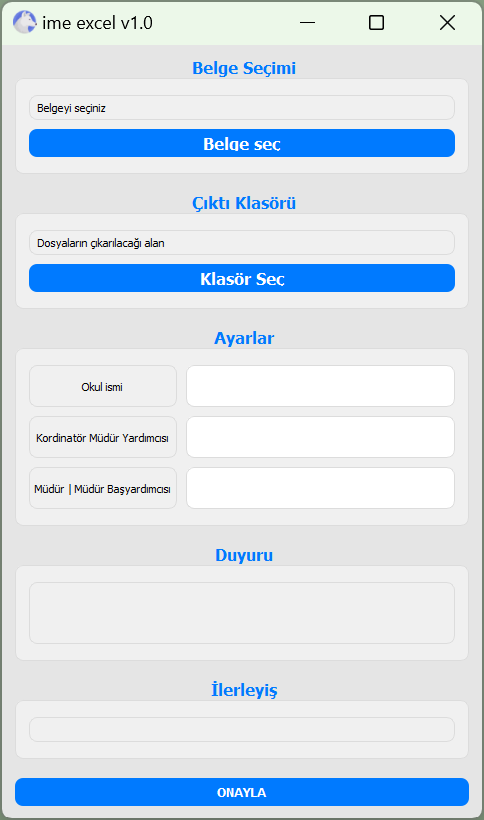
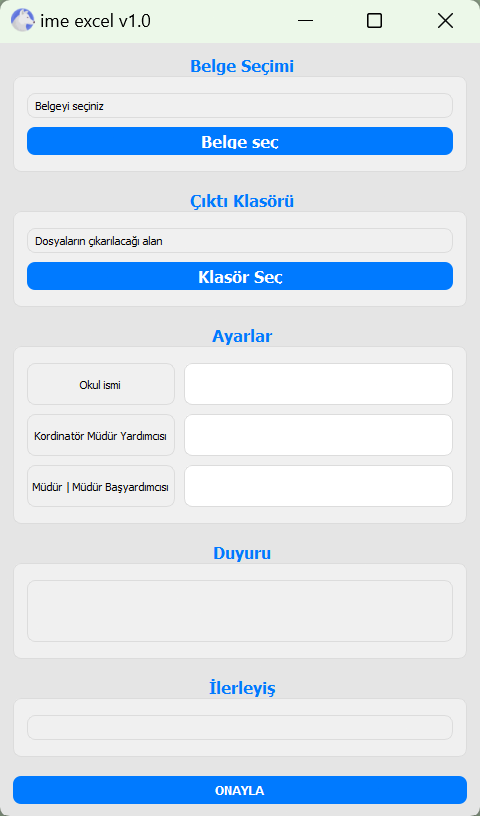
image change.

diff --git a/index.html b/index.html
@@ -1,5 +1,6 @@
 <!DOCTYPE html>
 <html lang="tr">
+
 <head>
     <meta charset="UTF-8">
     <meta name="viewport" content="width=device-width, initial-scale=1.0">
@@ -10,21 +11,23 @@
     <script>
         // Yapılandırma değişkenleri
         const CONFIG = {
-            downloadLink: 'https://drive.google.com/file/d/1KdeZWcAm5I1-MWns-CMsgVWXSNGGLW4B/view?usp=sharing'
+            downloadLink: 'https://drive.google.com/file/d/1apJwn-3oGRJZO3P_ziLOsmR5AhoSQTEi/view?usp=sharing'
         };
     </script>
 </head>
+
 <body class="min-h-screen bg-gradient-to-br from-gray-900 to-gray-800 text-white">
     <!-- Header -->
     <header class="fixed w-full top-0 bg-gray-900/60 backdrop-blur-md z-50 border-b border-gray-700/30">
         <nav class="container mx-auto px-4 sm:px-6 py-3 sm:py-5">
             <div class="flex items-center justify-between">
-                <h1 class="text-xl sm:text-2xl font-bold bg-gradient-to-r from-blue-400 to-blue-600 bg-clip-text text-transparent">
+                <h1
+                    class="text-xl sm:text-2xl font-bold bg-gradient-to-r from-blue-400 to-blue-600 bg-clip-text text-transparent">
                     İME Excel
                 </h1>
                 <div>
-                    <a href="#" onclick="window.location.href=CONFIG.downloadLink" 
-                       class="text-blue-400 hover:text-blue-300 transition-colors duration-300 flex items-center gap-2">
+                    <a href="#" onclick="window.location.href=CONFIG.downloadLink"
+                        class="text-blue-400 hover:text-blue-300 transition-colors duration-300 flex items-center gap-2">
                         <span>v1.0</span>
                     </a>
                 </div>
@@ -39,48 +42,62 @@
             <div class="w-full lg:w-1/2 space-y-4 py-4">
                 <div class="space-y-4">
                     <h2 class="text-3xl sm:text-4xl font-bold leading-tight">
-                        Öğretmenler İçin<br/>
+                        Öğretmenler İçin<br />
                         <span class="bg-gradient-to-r from-blue-400 to-blue-600 bg-clip-text text-transparent">
                             Excel Otomasyon Çözümü
                         </span>
                     </h2>
                     <p class="text-base sm:text-lg text-gray-300 leading-relaxed">
-                        Programımız öğretmenlerin elle yapması gereken işlemleri otomatikleştirerek büyük ölçüde zaman kazandırır. 
-                        Uygulama, önce öğretmenleri ve çalıştıkları firmaları ayırır, ardından bu firmalardaki öğrencileri 
+                        Programımız öğretmenlerin elle yapması gereken işlemleri otomatikleştirerek büyük ölçüde zaman
+                        kazandırır.
+                        Uygulama, önce öğretmenleri ve çalıştıkları firmaları ayırır, ardından bu firmalardaki
+                        öğrencileri
                         listeleyerek gerekli raporları oluşturur.
                     </p>
                     <div class="space-y-3 text-gray-300">
                         <div class="flex items-center gap-3">
-                            <svg xmlns="http://www.w3.org/2000/svg" class="h-5 w-5 sm:h-6 sm:w-6 text-blue-400 flex-shrink-0" fill="none" viewBox="0 0 24 24" stroke="currentColor">
-                                <path stroke-linecap="round" stroke-linejoin="round" stroke-width="2" d="M5 13l4 4L19 7" />
+                            <svg xmlns="http://www.w3.org/2000/svg"
+                                class="h-5 w-5 sm:h-6 sm:w-6 text-blue-400 flex-shrink-0" fill="none"
+                                viewBox="0 0 24 24" stroke="currentColor">
+                                <path stroke-linecap="round" stroke-linejoin="round" stroke-width="2"
+                                    d="M5 13l4 4L19 7" />
                             </svg>
                             <span class="text-sm sm:text-base">Öğrenci sayısı formları otomatik oluşturma</span>
                         </div>
                         <div class="flex items-center gap-3">
-                            <svg xmlns="http://www.w3.org/2000/svg" class="h-5 w-5 sm:h-6 sm:w-6 text-blue-400 flex-shrink-0" fill="none" viewBox="0 0 24 24" stroke="currentColor">
-                                <path stroke-linecap="round" stroke-linejoin="round" stroke-width="2" d="M5 13l4 4L19 7" />
+                            <svg xmlns="http://www.w3.org/2000/svg"
+                                class="h-5 w-5 sm:h-6 sm:w-6 text-blue-400 flex-shrink-0" fill="none"
+                                viewBox="0 0 24 24" stroke="currentColor">
+                                <path stroke-linecap="round" stroke-linejoin="round" stroke-width="2"
+                                    d="M5 13l4 4L19 7" />
                             </svg>
                             <span class="text-sm sm:text-base">Günlük, haftalık ve aylık görev formları</span>
                         </div>
                         <div class="flex items-center gap-3">
-                            <svg xmlns="http://www.w3.org/2000/svg" class="h-5 w-5 sm:h-6 sm:w-6 text-blue-400 flex-shrink-0" fill="none" viewBox="0 0 24 24" stroke="currentColor">
-                                <path stroke-linecap="round" stroke-linejoin="round" stroke-width="2" d="M5 13l4 4L19 7" />
+                            <svg xmlns="http://www.w3.org/2000/svg"
+                                class="h-5 w-5 sm:h-6 sm:w-6 text-blue-400 flex-shrink-0" fill="none"
+                                viewBox="0 0 24 24" stroke="currentColor">
+                                <path stroke-linecap="round" stroke-linejoin="round" stroke-width="2"
+                                    d="M5 13l4 4L19 7" />
                             </svg>
                             <span class="text-sm sm:text-base">Hatasız ve baskıya hazır Excel çıktıları</span>
                         </div>
                     </div>
                 </div>
-                
+
                 <div class="flex flex-wrap gap-4 mt-6">
-                    <a href="#" onclick="window.location.href=CONFIG.downloadLink" 
-                       class="bg-blue-600 hover:bg-blue-700 px-4 sm:px-6 py-2 sm:py-3 rounded-lg transition-all duration-300 transform hover:scale-105 inline-flex items-center gap-2 text-sm sm:text-base">
+                    <a href="javascript:void(0);"
+                        onclick="window.open(CONFIG.downloadLink, '_blank', 'noopener,noreferrer')"
+                        class="bg-blue-600 hover:bg-blue-700 px-4 sm:px-6 py-2 sm:py-3 rounded-lg transition-all duration-300 transform hover:scale-105 inline-flex items-center gap-2 text-sm sm:text-base">
                         <span>Hemen İndir</span>
-                        <svg xmlns="http://www.w3.org/2000/svg" class="h-4 w-4 sm:h-5 sm:w-5" fill="none" viewBox="0 0 24 24" stroke="currentColor">
-                            <path stroke-linecap="round" stroke-linejoin="round" stroke-width="2" d="M4 16v1a3 3 0 003 3h10a3 3 0 003-3v-1m-4-4l-4 4m0 0l-4-4m4 4V4" />
+                        <svg xmlns="http://www.w3.org/2000/svg" class="h-4 w-4 sm:h-5 sm:w-5" fill="none"
+                            viewBox="0 0 24 24" stroke="currentColor">
+                            <path stroke-linecap="round" stroke-linejoin="round" stroke-width="2"
+                                d="M4 16v1a3 3 0 003 3h10a3 3 0 003-3v-1m-4-4l-4 4m0 0l-4-4m4 4V4" />
                         </svg>
                     </a>
-                    <a href="#nasil-kullanilir" 
-                       class="border border-blue-600 hover:bg-blue-600/20 px-4 sm:px-6 py-2 sm:py-3 rounded-lg transition-all duration-300 text-sm sm:text-base">
+                    <a href="#nasil-kullanilir"
+                        class="border border-blue-600 hover:bg-blue-600/20 px-4 sm:px-6 py-2 sm:py-3 rounded-lg transition-all duration-300 text-sm sm:text-base">
                         Nasıl Kullanılır?
                     </a>
                 </div>
@@ -88,18 +105,24 @@
 
             <!-- Sağ Panel -->
             <div class="w-full lg:w-1/2 flex items-center justify-center mt-8 lg:mt-0">
-                <div class="relative w-4/5 sm:w-3/5 transform perspective-1000 rotate-y-3 rotate-x-3 hover:rotate-y-0 hover:rotate-x-0 transition-transform duration-500">
-                    <div class="absolute -inset-3 bg-gradient-to-r from-blue-600 to-blue-400 rounded-2xl blur opacity-30"></div>
+                <div
+                    class="relative w-4/5 sm:w-3/5 transform perspective-1000 rotate-y-3 rotate-x-3 hover:rotate-y-0 hover:rotate-x-0 transition-transform duration-500">
+                    <div
+                        class="absolute -inset-3 bg-gradient-to-r from-blue-600 to-blue-400 rounded-2xl blur opacity-30">
+                    </div>
                     <div class="relative bg-gray-900 rounded-xl overflow-hidden shadow-2xl">
-                        <div class="aspect-[9/14] p-1">
-                            <img src="app.png" alt="IME Excel Uygulama Görüntüsü" 
-                                 class="w-full h-full object-contain">
+                        <div class="aspect-[9/15] p-3">
+                            <img src="app.png" alt="IME Excel Uygulama Görüntüsü"
+                                class="w-full h-full object-contain rounded-xl">
                         </div>
                     </div>
                     <!-- Yansıma efekti -->
-                    <div class="absolute inset-0 bg-gradient-to-tr from-white/10 to-transparent opacity-20 rounded-xl"></div>
+                    <div class="absolute inset-0 bg-gradient-to-tr from-white/10 to-transparent opacity-20 rounded-xl">
+                    </div>
                     <!-- Gölge efekti -->
-                    <div class="absolute -bottom-4 left-1/2 -translate-x-1/2 w-4/5 h-[10px] bg-blue-500/20 blur-xl rounded-full"></div>
+                    <div
+                        class="absolute -bottom-4 left-1/2 -translate-x-1/2 w-4/5 h-[10px] bg-blue-500/20 blur-xl rounded-full">
+                    </div>
                 </div>
             </div>
         </div>
@@ -112,4 +135,3 @@
         </div>
     </footer>
 </body>
-</html>
